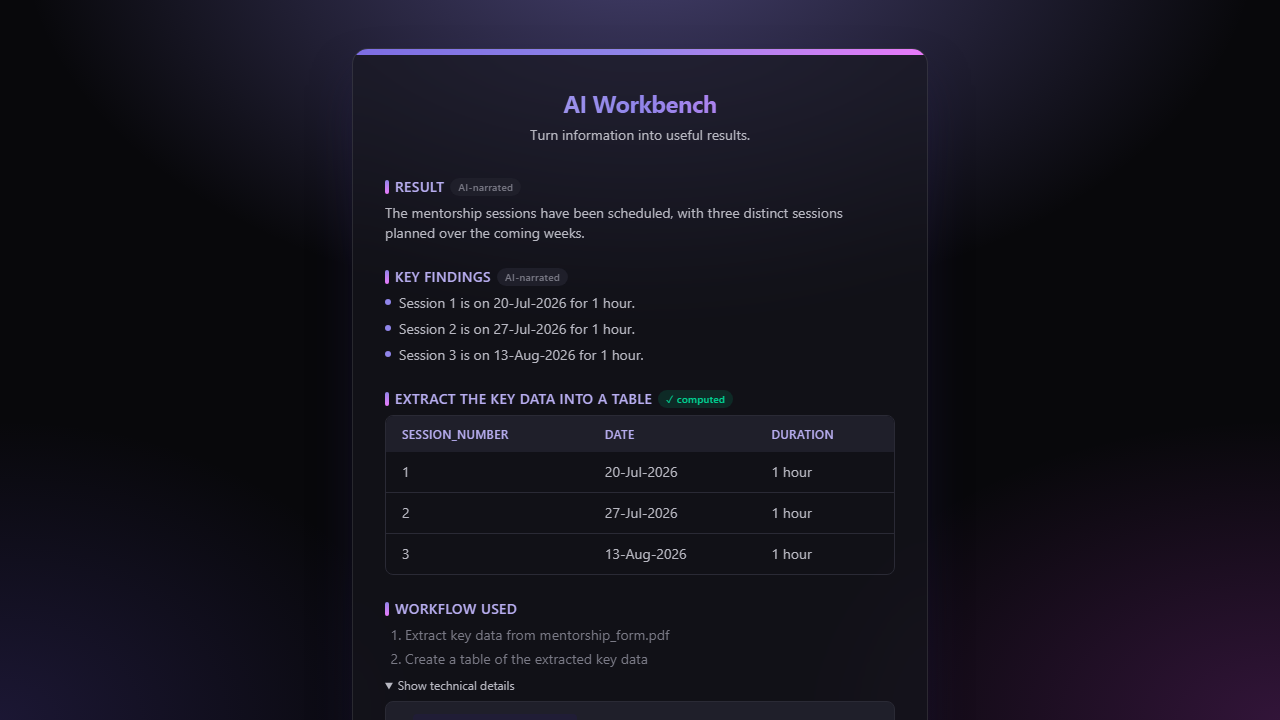
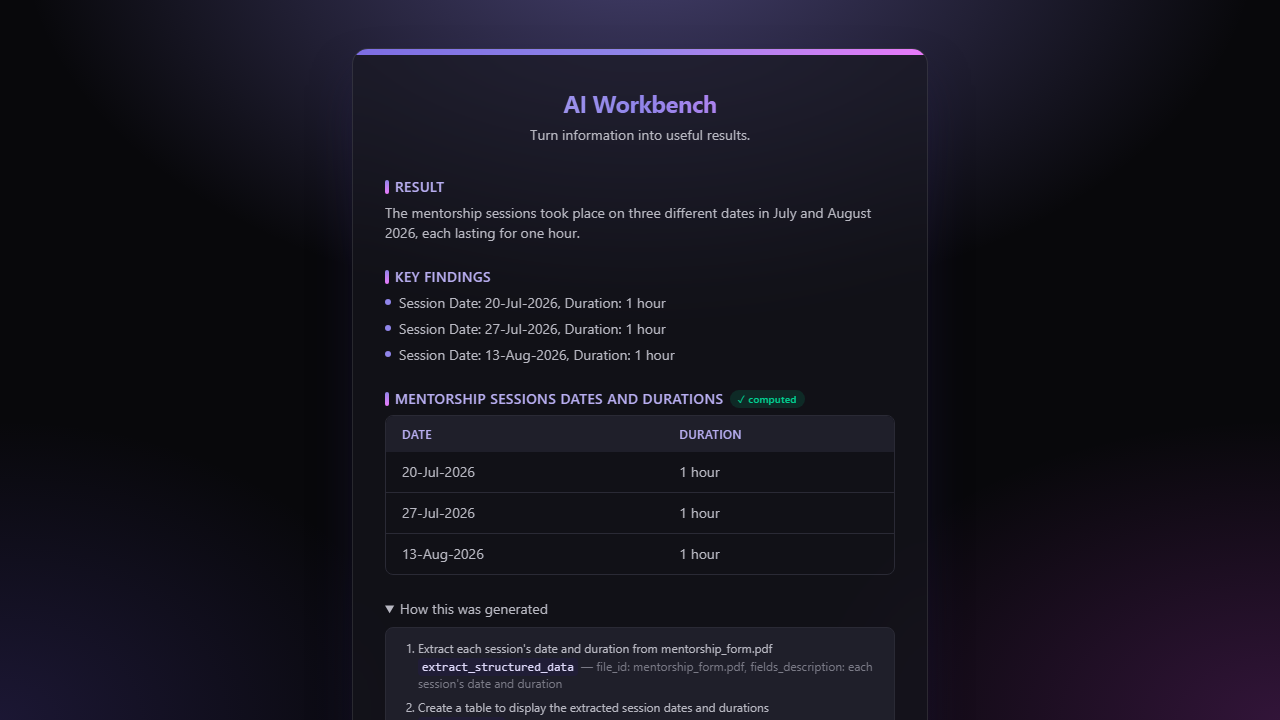
Simplify result view: drop clutter, merge transparency into one panel Removed the "AI-narrated" badge entirely — it wasn't telling anyone anything they didn't already assume (of course the written summary is AI-written). Kept "computed" on tables/charts, since that one corrects a real assumption a v

diff --git a/frontend/src/components/ResultView.tsx b/frontend/src/components/ResultView.tsx
@@ -1,51 +1,64 @@
 import type { ReactNode } from "react";
-import type { ToolCall, WorkflowResult } from "../types";
+import type { FileMeta, ToolCall, WorkflowResult } from "../types";
 import { Chart } from "./Chart";
 import { DataTable } from "./DataTable";
 
 interface ResultViewProps {
   result: WorkflowResult;
-  workflowSteps: string[];
   planCalls: ToolCall[];
+  files: FileMeta[];
   onReset: () => void;
 }
 
-function Badge({ kind }: { kind: "computed" | "narrated" }) {
-  if (kind === "computed") {
-    return (
-      <span className="rounded-full bg-emerald-500/15 px-2 py-0.5 text-[10px] font-medium tracking-wide text-emerald-400 normal-case">
-        ✓ computed
-      </span>
-    );
-  }
+function ComputedBadge() {
   return (
-    <span className="rounded-full bg-surface-2 px-2 py-0.5 text-[10px] font-medium tracking-wide text-ink-muted normal-case">
-      AI-narrated
+    <span className="rounded-full bg-emerald-500/15 px-2 py-0.5 text-[10px] font-medium tracking-wide text-emerald-400 normal-case">
+      ✓ computed
     </span>
   );
 }
 
-function SectionHeading({ children, badge }: { children: ReactNode; badge?: "computed" | "narrated" }) {
+function SectionHeading({ children, computed }: { children: ReactNode; computed?: boolean }) {
   return (
     <h3 className="flex items-center gap-1.5 text-sm font-semibold tracking-wide text-purple-300 uppercase">
       <span className="h-3.5 w-1 rounded-full bg-gradient-to-b from-purple-400 to-pink-400" />
       {children}
-      {badge && <Badge kind={badge} />}
+      {computed && <ComputedBadge />}
     </h3>
   );
 }
 
-export function ResultView({ result, workflowSteps, planCalls, onReset }: ResultViewProps) {
+const RESULT_ID_RE = /^[0-9a-f]{8}-[0-9a-f]{4}-[0-9a-f]{4}-[0-9a-f]{4}-[0-9a-f]{12}$/i;
+
+// Tool args carry raw file_id/result_id values, meaningless to a reader.
+// Swap in the real filename where we know it, or a plain-English label for
+// a reference to an earlier step's result — never show a bare UUID.
+function describeArgs(args: Record<string, unknown>, fileNames: Record<string, string>): string {
+  return Object.entries(args)
+    .map(([key, value]) => {
+      if (typeof value !== "string") return `${key}: ${value}`;
+      if (fileNames[value]) return `${key}: ${fileNames[value]}`;
+      if (value.startsWith("$result_of_step_") || RESULT_ID_RE.test(value)) {
+        return `${key}: (result from an earlier step)`;
+      }
+      return `${key}: ${value}`;
+    })
+    .join(", ");
+}
+
+export function ResultView({ result, planCalls, files, onReset }: ResultViewProps) {
+  const fileNames = Object.fromEntries(files.map((f) => [f.file_id, f.filename]));
+
   return (
     <div className="space-y-6">
       <div>
-        <SectionHeading badge="narrated">Result</SectionHeading>
+        <SectionHeading>Result</SectionHeading>
         <p className="mt-1.5 text-sm text-ink-secondary">{result.summary}</p>
       </div>
 
       {result.findings.length > 0 && (
         <div>
-          <SectionHeading badge="narrated">Key findings</SectionHeading>
+          <SectionHeading>Key findings</SectionHeading>
           <ul className="mt-1.5 space-y-1.5 text-sm text-ink-secondary">
             {result.findings.map((finding, i) => (
               <li key={i} className="flex gap-2">
@@ -59,7 +72,7 @@ export function ResultView({ result, workflowSteps, planCalls, onReset }: Result
 
       {result.table && (
         <div>
-          <SectionHeading badge="computed">{result.table.title}</SectionHeading>
+          <SectionHeading computed>{result.table.title}</SectionHeading>
           <div className="mt-1.5">
             <DataTable table={result.table} />
           </div>
@@ -68,42 +81,31 @@ export function ResultView({ result, workflowSteps, planCalls, onReset }: Result
 
       {result.chart && (
         <div>
-          <SectionHeading badge="computed">Visualisation</SectionHeading>
+          <SectionHeading computed>Visualisation</SectionHeading>
           <div className="mt-1.5">
             <Chart chart={result.chart} />
           </div>
         </div>
       )}
 
-      <div>
-        <SectionHeading>Workflow used</SectionHeading>
-        <ol className="mt-1.5 list-decimal space-y-1 pl-5 text-sm text-ink-muted">
-          {workflowSteps.map((step, i) => (
-            <li key={i}>{step}</li>
-          ))}
-        </ol>
-
-        {planCalls.length > 0 && (
-          <details className="mt-2 text-xs">
-            <summary className="cursor-pointer text-ink-muted hover:text-ink-secondary">
-              Show technical details
-            </summary>
-            <div className="mt-2 space-y-2 rounded-lg border border-line bg-surface-2 p-3">
-              {planCalls.map((call, i) => (
-                <div key={i}>
-                  <div className="flex items-center gap-1.5">
-                    <span className="text-ink-muted">{i + 1}.</span>
-                    <code className="rounded bg-purple-900/30 px-1.5 py-0.5 text-purple-200">{call.tool}</code>
-                  </div>
-                  <pre className="mt-1 overflow-x-auto rounded bg-black/30 p-2 text-ink-secondary">
-                    {JSON.stringify(call.args, null, 2)}
-                  </pre>
+      {planCalls.length > 0 && (
+        <details className="text-sm">
+          <summary className="cursor-pointer text-ink-muted hover:text-ink-secondary">
+            How this was generated
+          </summary>
+          <ol className="mt-2 list-decimal space-y-2 rounded-lg border border-line bg-surface-2 p-3 pl-8 text-xs text-ink-secondary">
+            {planCalls.map((call, i) => (
+              <li key={i}>
+                <div>{call.step}</div>
+                <div className="mt-0.5 text-ink-muted">
+                  <code className="rounded bg-purple-900/30 px-1 py-0.5 text-purple-200">{call.tool}</code>
+                  {Object.keys(call.args).length > 0 && <span> — {describeArgs(call.args, fileNames)}</span>}
                 </div>
-              ))}
-            </div>
-          </details>
-        )}
-      </div>
+              </li>
+            ))}
+          </ol>
+        </details>
+      )}
 
       <button
         onClick={onReset}

diff --git a/frontend/src/App.tsx b/frontend/src/App.tsx
@@ -104,7 +104,7 @@ function App() {
 
           {status === "done" && result && (
             <div className="mt-8">
-              <ResultView result={result} workflowSteps={planSteps} planCalls={planCalls} onReset={handleReset} />
+              <ResultView result={result} planCalls={planCalls} files={files} onReset={handleReset} />
             </div>
           )}
         </div>

diff --git a/README.md b/README.md
@@ -128,7 +128,7 @@ To try it without the frontend at all, use `http://127.0.0.1:8000/docs` directly
 | ![Home screen](screenshots/01-home.png) | ![Files uploaded](screenshots/02-files-uploaded.png) |
 | Home screen | Files uploaded, ready to generate |
 | ![Planning in progress](screenshots/03-planning.png) | ![Result view](screenshots/04-result.png) |
-| Planning in progress | A PDF's data extracted into a real, computed table — with "✓ computed" vs "AI-narrated" badges and an expandable "technical details" view showing the exact tool call that ran |
+| Planning in progress | A PDF's data extracted into a real, computed table — the "✓ computed" badge marks a verified result, and "How this was generated" expands to show the real tool calls that ran, in plain filenames rather than raw IDs |
 
 ## Test
 
